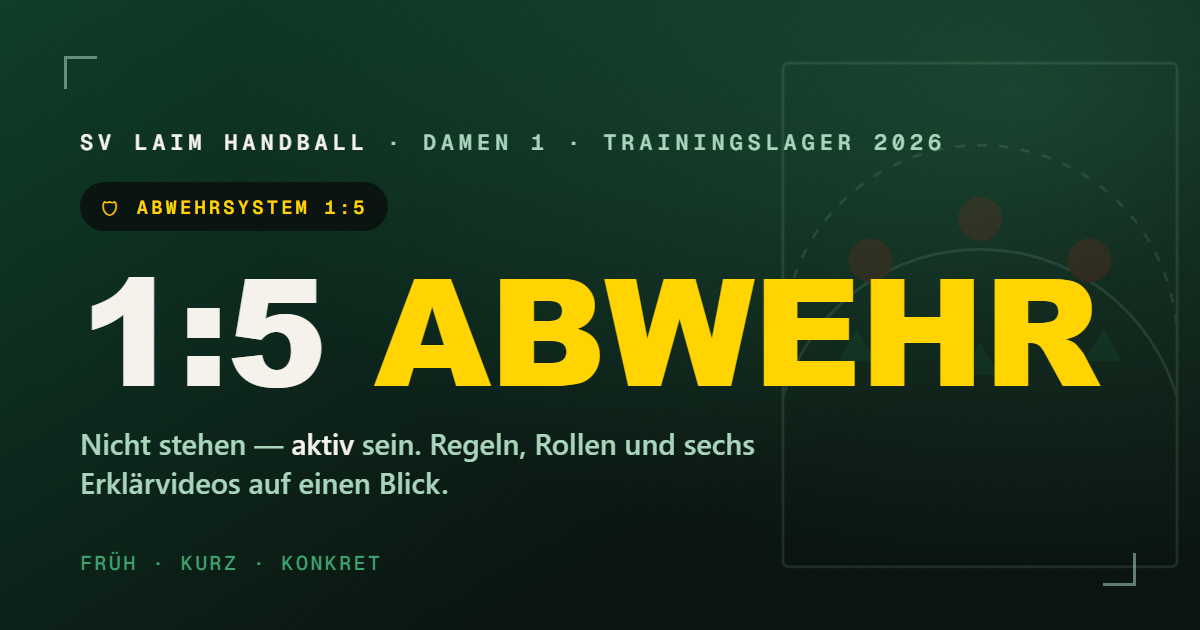
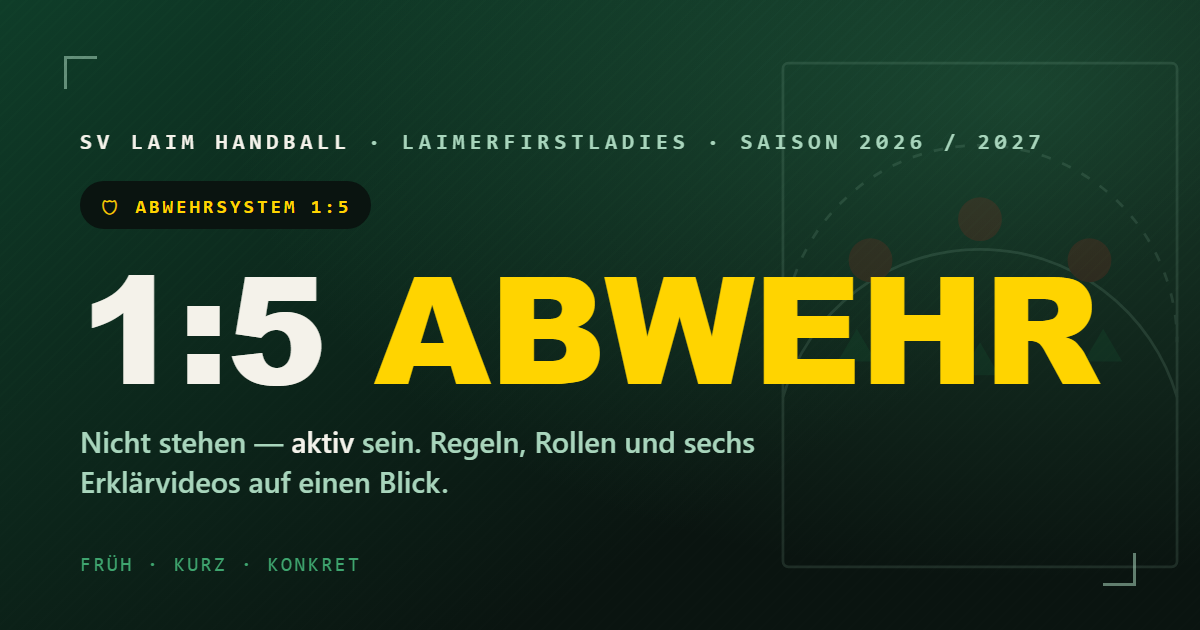
Texte: No-Go-Liste entfernt, Damen 1 -> LaimerFirstLadies, Trainingslager -> Saison 2026/2027
Betrifft Hero, Base-Title/OG, Footer, README und OG-Bild.

diff --git a/README.md b/README.md
@@ -1,6 +1,6 @@
-# 1:5 Abwehr — SV Laim Handball Damen 1
+# 1:5 Abwehr — SV Laim Handball LaimerFirstLadies
 
-Landingpage/One-Pager zum Abwehrsystem **1:5** (Trainingslager 2026). Fasst
+Landingpage/One-Pager zum Abwehrsystem **1:5** (Saison 2026 / 2027). Fasst
 Grundidee, die 8 Regeln, die Positions-Zuordnung und die 6 Erklärvideos aus dem
 Workshop zusammen. Design im „Laimkademie-Look" (abgeleitet von der Harz-Guide-Seite).
 